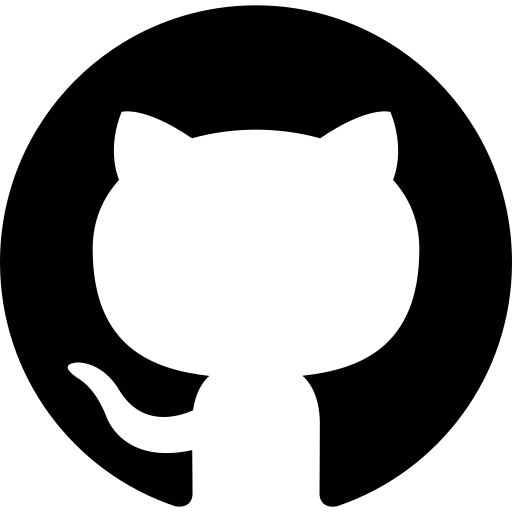
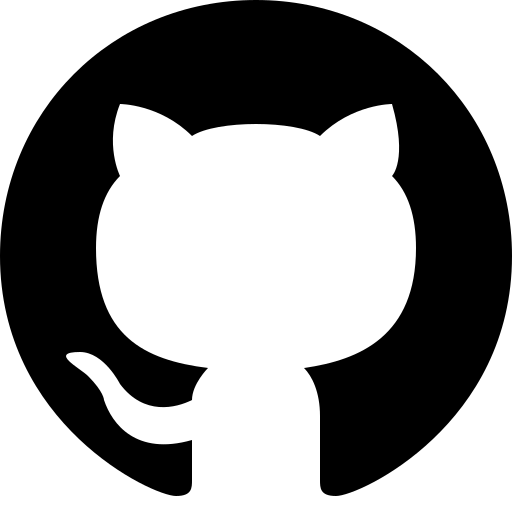
Add Blog, Todo and Schulte table

diff --git a/src/index.html b/src/index.html
@@ -17,7 +17,7 @@
       <ul class="social__list">
          <li class="social__item">
             <a href="https://github.com/Matthewse" target="_blank">
-               <img class="social__item--github" src="assets/img/github.png" alt="github" width="45px" height="45px">
+               <img class="social__item--github" src="assets/img/github.png" alt="github" width="44px" height="44px">
             </a>
          </li>
          <li class="social__item">
@@ -50,7 +50,7 @@
                <article>
                   <h3 class="works__title">Интернет-магазин</h3>
                   <div class="works__image-wrapper works__image-wrapper--mobile-shop">
-                     <img class="works__image" src="assets/img/shop.jpg" width="750" height="550" alt="e-commerce">
+                     <img class="works__image" src="assets/img/shop.jpg" width="750" height="490" alt="e-commerce">
                      <ul class="works__caption">
                         <li class="works__link"><a href="">Смотреть</a></li>
                         <li><a href="https://github.com/Matthewse/mobileShop" target="_blank">Код на Github</a></li>
@@ -66,8 +66,25 @@
                   </div>
                </article>
             </li>
-         </ul>
-         <ul class="works__list">
+            <li class="works__item">
+               <article>
+                  <h3 class="works__title">Блог</h3>
+                  <div class="works__image-wrapper works__image-wrapper--blog">
+                     <img class="works__image" src="assets/img/blog.jpg" width="750" height="475" alt="blog">
+                     <ul class="works__caption">
+                        <li class="works__link"><a href="">Смотреть</a></li>
+                        <li><a href="https://github.com/Matthewse/blog" target="_blank">Код на Github</a></li>
+                     </ul>
+                  </div>
+                  <div class="technologies">
+                     <ul class="technologies__list">
+                        <li class="technologies__item">React</li>
+                        <li class="technologies__item">Html</li>
+                        <li class="technologies__item">Css</li>
+                     </ul>
+                  </div>
+               </article>
+            </li>
             <li class="works__item">
                <article>
                   <h3 class="works__title">Верстка сайта</h3>
@@ -83,6 +100,44 @@
                         <li class="technologies__item">Html</li>
                         <li class="technologies__item">Sass</li>
                         <li class="technologies__item">Gulp</li>
+                     </ul>
+                  </div>
+               </article>
+            </li>
+            <li class="works__item">
+               <article>
+                  <h3 class="works__title">Список дел</h3>
+                  <div class="works__image-wrapper works__image-wrapper--todo">
+                     <img class="works__image" src="assets/img/todo.jpg" width="750" height="475" alt="todo">
+                     <ul class="works__caption">
+                        <li class="works__link"><a href="">Смотреть</a></li>
+                        <li><a href="https://codepen.io/Matthewse/pen/xxxLdKE" target="_blank">Код на Codepen</a></li>
+                     </ul>
+                  </div>
+                  <div class="technologies">
+                     <ul class="technologies__list">
+                        <li class="technologies__item">Javascript</li>
+                        <li class="technologies__item">Html</li>
+                        <li class="technologies__item">Css</li>
+                     </ul>
+                  </div>
+               </article>
+            </li>
+            <li class="works__item">
+               <article>
+                  <h3 class="works__title">Таблица Шульте</h3>
+                  <div class="works__image-wrapper works__image-wrapper--todo">
+                     <img class="works__image" src="assets/img/table.jpg" width="750" height="475" alt="table">
+                     <ul class="works__caption">
+                        <li class="works__link"><a href="">Смотреть</a></li>
+                        <li><a href="https://codepen.io/Matthewse/pen/rNBbbNZ" target="_blank">Код на Codepen</a></li>
+                     </ul>
+                  </div>
+                  <div class="technologies">
+                     <ul class="technologies__list">
+                        <li class="technologies__item">Javascript</li>
+                        <li class="technologies__item">Html</li>
+                        <li class="technologies__item">Css</li>
                      </ul>
                   </div>
                </article>

diff --git a/src/assets/scss/blocks/_works.scss b/src/assets/scss/blocks/_works.scss
@@ -67,12 +67,12 @@
    transition: all 0.3s ease-in-out;
 }
 
-.works__image-wrapper--mobile-shop {
-   width: 750px;
-   height: 550px;
-}
-
-.works__image-wrapper--krunch {
+.works__image-wrapper {
    width: 750px;
    height: 475px;
+}
+
+.works__image-wrapper--mobile-shop {
+   width: 750px;
+   height: 490px;
 }

diff --git a/src/assets/scss/blocks/_social-list.scss b/src/assets/scss/blocks/_social-list.scss
@@ -16,9 +16,9 @@
 .social__item--codepen {
    background-color: #ffffff;
    border-radius: 50%;
-   border: 1.3px solid #ffffff;
+   border: 1px solid #ffffff;
 }
 
 .social__item--github {
-   border: 1.9px solid #ffffff;
+   border: 2.15px solid #ffffff;
 }
